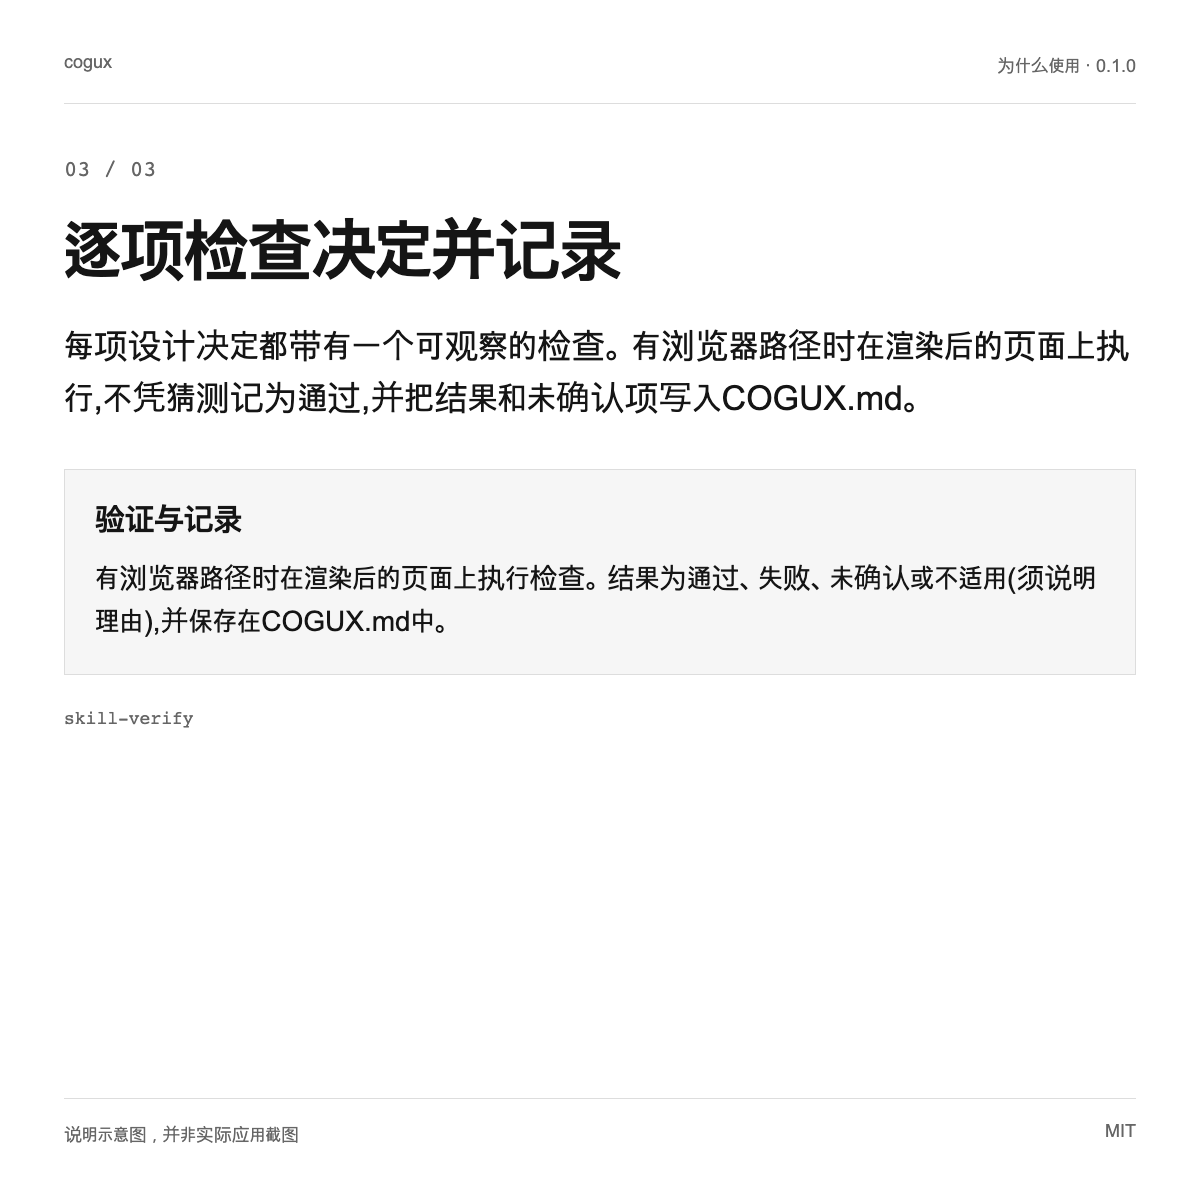
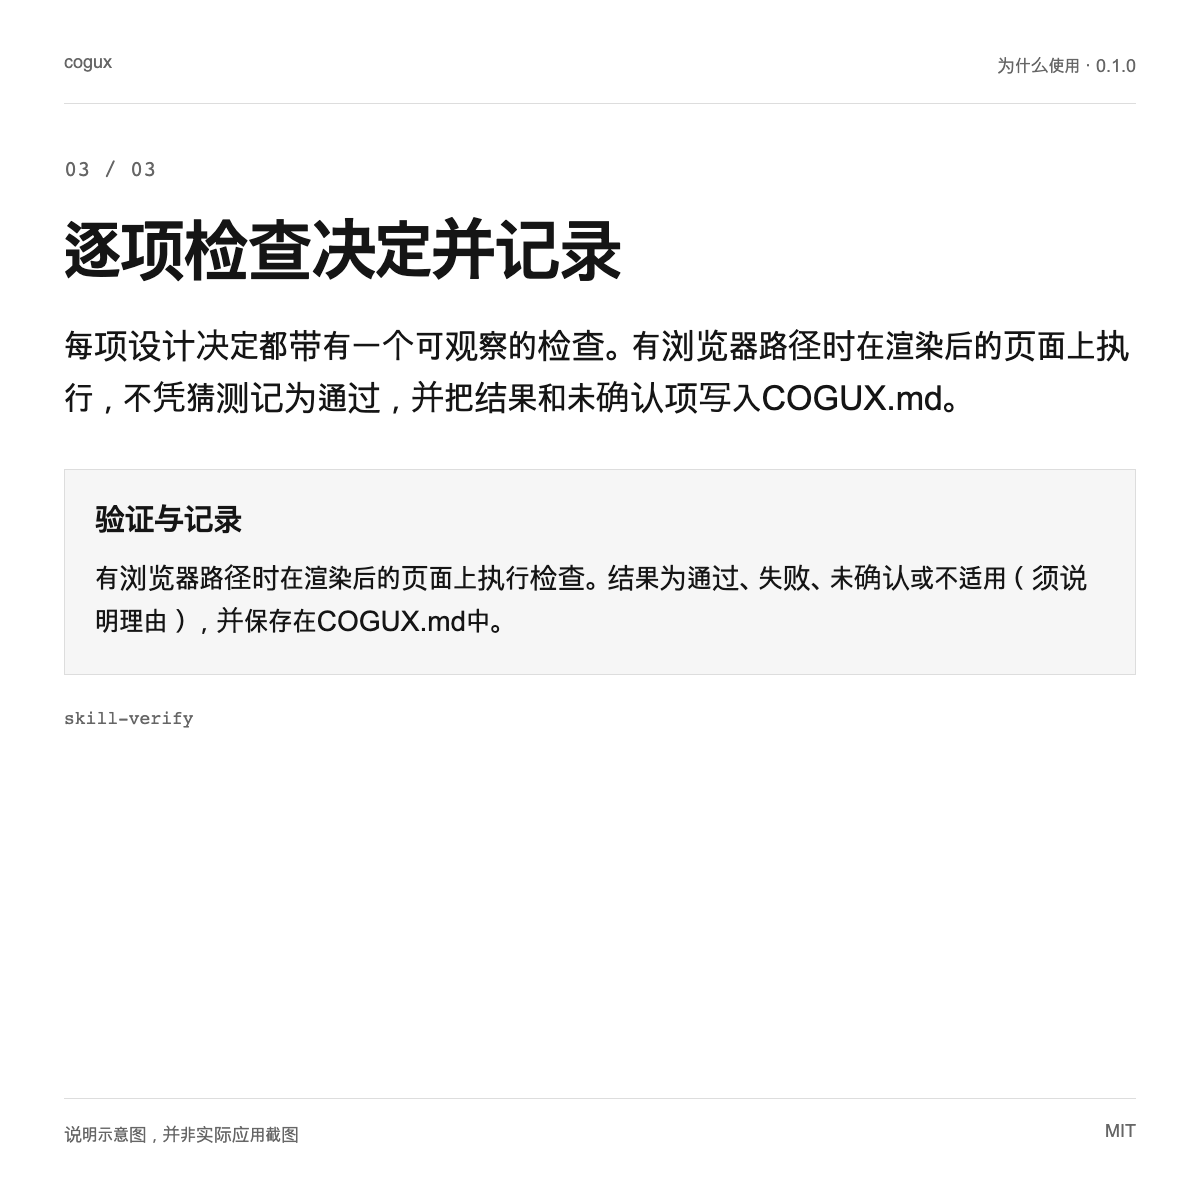
docs: 공개 전 정리 (약속 문구, 지원 안내, 이슈 링크, 프롬프트, 변경 기록, 중국어 구두점)
why: 소유자가 하지 않은 48시간 응답 약속과 없는 FAQ, 켜지지 않았을 수 있는 Discussions 링크, 자리표시 문구를 없애고, 중국어 본문은 전각 구두점을 쓴다.

Changed region(s): [[0.0925, 0.3083, 0.8017, 0.37], [0.0617, 0.4933, 0.4008, 0.5242], [0.8325, 0.4625, 0.925, 0.4933]]

diff --git a/README.zh.md b/README.zh.md
@@ -1,10 +1,10 @@
 # cogux
 
-先阅读项目,只挑选适合它的认知心理学原则,记录理由,修改真实的界面代码,并写入COGUX.md的Claude Code技能。
+先阅读项目，只挑选适合它的认知心理学原则，记录理由，修改真实的界面代码，并写入COGUX.md的Claude Code技能。
 
 [English](README.md) | [한국어](README.ko.md) | [日本語](README.ja.md) | **简体中文**
 
-![cogux: 说明示意图，并非实际应用截图](assets/zh/hero.png)
+![cogux：说明示意图，并非实际应用截图](assets/zh/hero.png)
 
 0.1.0 · MIT
 
@@ -12,9 +12,9 @@
 
 | | |
 | --- | --- |
-| 只选适合的原则 | 先阅读用户、任务、界面和约束,再选择原则,并必须写出被排除的原则及理由。对所有项目套用同一组原则被定义为失败。 |
-| 修改真实的界面代码 | 每项设计决定都写明原则、界面、修改内容,以及数量、尺寸或是否存在这类可观察的检查。随后在项目代码中实现,并记录到COGUX.md。 |
-| 逐项检查决定并记录 | 每项设计决定都带有一个可观察的检查。有浏览器路径时在渲染后的页面上执行,不凭猜测记为通过,并把结果和未确认项写入COGUX.md。 |
+| 只选适合的原则 | 先阅读用户、任务、界面和约束，再选择原则，并必须写出被排除的原则及理由。对所有项目套用同一组原则被定义为失败。 |
+| 修改真实的界面代码 | 每项设计决定都写明原则、界面、修改内容，以及数量、尺寸或是否存在这类可观察的检查。随后在项目代码中实现，并记录到COGUX.md。 |
+| 逐项检查决定并记录 | 每项设计决定都带有一个可观察的检查。有浏览器路径时在渲染后的页面上执行，不凭猜测记为通过，并把结果和未确认项写入COGUX.md。 |
 
 ## 快速开始
 
@@ -25,13 +25,13 @@ git clone https://github.com/grow1023/cogux "$HOME/.claude/skills/cogux"
 bash "$HOME/.claude/skills/cogux/gates/verify_cogux.sh" "$HOME/.claude/skills/cogux"
 ```
 
-第二条命令检查技能结构、原则文件、两个示例项目和密钥扫描。所有子检查通过后以VERIFY PASS结束。但调用主题检查的子检查需要所有者的本地文件,在其他电脑上可能失败。
+第二条命令检查技能结构、原则文件、两个示例项目和密钥扫描。所有子检查通过后以VERIFY PASS结束。但调用主题检查的子检查需要所有者的本地文件，在其他电脑上可能失败。
 
 ## 工作原理
 
 该技能按顺序执行六个步骤。下面的三个阶段是对它们的归并。
 
-![工作原理: 说明示意图，并非实际应用截图](assets/zh/architecture.png)
+![工作原理：说明示意图，并非实际应用截图](assets/zh/architecture.png)
 
 ### 阅读与选择
 
@@ -39,62 +39,62 @@ bash "$HOME/.claude/skills/cogux/gates/verify_cogux.sh" "$HOME/.claude/skills/co
 
 ### 决定与实现
 
-每项决定写一个可观察的检查,修改真实界面代码,并对改动的文件运行现有的竖条检查和主题检查。
+每项决定写一个可观察的检查，修改真实界面代码，并对改动的文件运行现有的竖条检查和主题检查。
 
 ### 验证与记录
 
-有浏览器路径时在渲染后的页面上执行检查。结果为通过、失败、未确认或不适用(须说明理由),并保存在COGUX.md中。
+有浏览器路径时在渲染后的页面上执行检查。结果为通过、失败、未确认或不适用（须说明理由），并保存在COGUX.md中。
 
 ## 使用场景
 
 ### 两个对照的示例项目
 
-fixtures/中有首次使用的结账流程和专注学习应用。各自包含修改前页面、修改后页面和COGUX.md,两个项目选择的原则不同。
+fixtures/中有首次使用的结账流程和专注学习应用。各自包含修改前页面、修改后页面和COGUX.md，两个项目选择的原则不同。
 
 ### 注明阅读范围的47条原则
 
-每个原则文件都有定义、来源链接、适用时机、不适用时机、可观察的检查以及实际阅读范围。定义用自己的话写成,没有照搬来源。
+每个原则文件都有定义、来源链接、适用时机、不适用时机、可观察的检查以及实际阅读范围。定义用自己的话写成，没有照搬来源。
 
-![只选适合的原则: 说明示意图，并非实际应用截图](assets/zh/gallery-1.png)
+![只选适合的原则：说明示意图，并非实际应用截图](assets/zh/gallery-1.png)
 
-![修改真实的界面代码: 说明示意图，并非实际应用截图](assets/zh/gallery-2.png)
+![修改真实的界面代码：说明示意图，并非实际应用截图](assets/zh/gallery-2.png)
 
-![逐项检查决定并记录: 说明示意图，并非实际应用截图](assets/zh/gallery-3.png)
+![逐项检查决定并记录：说明示意图，并非实际应用截图](assets/zh/gallery-3.png)
 
 ## 限制与隐私
 
-- 技能正文和检查脚本引用所有者本地的规则(~/.claude/rules/)和检查脚本(~/.claude/qa-canon/)。这些文件不在本仓库中,在其他电脑上克隆后部分检查步骤可能失败。
+- 技能正文和检查脚本引用所有者本地的规则（~/.claude/rules/）和检查脚本（~/.claude/qa-canon/）。这些文件不在本仓库中，在其他电脑上克隆后部分检查步骤可能失败。
 
-- 定义只与来源的开头部分做了对照。没有任何原则读过全文,也没有打开原始研究。
+- 定义只与来源的开头部分做了对照。没有任何原则读过全文，也没有打开原始研究。
 
-- 第三方来源(Laws of UX、Nielsen Norman Group、jnd.org、arXiv)的权利归各自作者所有,MIT许可证不适用于它们。自己撰写的摘要是否构成CC BY-NC-ND材料的衍生作品,未做法律核实。
+- 第三方来源（Laws of UX、Nielsen Norman Group、jnd.org、arXiv）的权利归各自作者所有，MIT许可证不适用于它们。自己撰写的摘要是否构成CC BY-NC-ND材料的衍生作品，未做法律核实。
 
 ## 验证状态
 
-- **已验证运行**: 在已安装的副本上运行了verify_cogux.sh,以VERIFY PASS结束。这检查的是结构,并不证明在新项目中原则选择正确。
-- **文档说明**: 没有运行git clone命令,因为撰写本README时远程仓库尚不存在。
+- **已验证运行**: 在已安装的副本上运行了verify_cogux.sh，以VERIFY PASS结束。这检查的是结构，并不证明在新项目中原则选择正确。
+- **文档说明**: 没有运行git clone命令，因为撰写本README时远程仓库尚不存在。
 
 ## 下一步
 
-工作流程见SKILL.md,原则见references/INDEX.md,完整示例见fixtures/。
+工作流程见SKILL.md，原则见references/INDEX.md，完整示例见fixtures/。
 
 <details>
 <summary>依据列表</summary>
 
 [JSON](docs/showcase/sources.json)
 
-- `skill-intro`: `SKILL.md`, L6–L8 (已检查代码)
-- `skill-boundary`: `SKILL.md`, L10–L16 (已检查代码)
-- `skill-read`: `SKILL.md`, L22–L33 (已检查代码)
-- `skill-select`: `SKILL.md`, L35–L55 (已检查代码)
-- `skill-decide`: `SKILL.md`, L57–L69 (已检查代码)
-- `skill-verify`: `SKILL.md`, L71–L87 (已检查代码)
-- `library`: `references/INDEX.md`, L1–L22 (已检查代码)
-- `rights-and-scope`: `references/INDEX.md`, L5–L21 (文档说明)
-- `gate`: `gates/verify_cogux.sh`, L1–L34 (已验证运行)
-- `fixture-a`: `fixtures/checkout-first-time/COGUX.md`, L1–L77 (已检查代码)
-- `fixture-b`: `fixtures/study-adhd/COGUX.md`, L1–L77 (已检查代码)
-- `license`: `LICENSE`, L1–L3 (已检查代码)
+- `skill-intro`: `SKILL.md`, L6–L8（已检查代码）
+- `skill-boundary`: `SKILL.md`, L10–L16（已检查代码）
+- `skill-read`: `SKILL.md`, L22–L33（已检查代码）
+- `skill-select`: `SKILL.md`, L35–L55（已检查代码）
+- `skill-decide`: `SKILL.md`, L57–L69（已检查代码）
+- `skill-verify`: `SKILL.md`, L71–L87（已检查代码）
+- `library`: `references/INDEX.md`, L1–L22（已检查代码）
+- `rights-and-scope`: `references/INDEX.md`, L5–L21（文档说明）
+- `gate`: `gates/verify_cogux.sh`, L1–L34（已验证运行）
+- `fixture-a`: `fixtures/checkout-first-time/COGUX.md`, L1–L77（已检查代码）
+- `fixture-b`: `fixtures/study-adhd/COGUX.md`, L1–L77（已检查代码）
+- `license`: `LICENSE`, L1–L3（已检查代码）
 
 - `selects` → `skill-read`, `skill-select`
 - `implements` → `skill-decide`

diff --git a/CHANGELOG.md b/CHANGELOG.md
@@ -3,9 +3,16 @@
 이 프로젝트의 주요 변경사항을 기록합니다.
 형식: [Keep a Changelog](https://keepachangelog.com/), 버전: [Semantic Versioning](https://semver.org/).
 
-## [Unreleased]
+## [0.1.0]
+
+첫 공개 버전입니다.
 
 ### Added
-- 초기 프로젝트 구조
+- 인지심리학 기반 UI/UX 스킬(`SKILL.md`): 프로젝트 읽기, 원칙 선택, 설계 결정, 구현, 검증, `COGUX.md` 기록의 6단계 작업 순서
+- 원칙 라이브러리 47개(`references/`)와 색인. 항목마다 출처 링크, 적용할 때, 적용하지 않을 때, 관찰 확인, 읽은 범위를 적었습니다. 정의는 출처의 앞부분과만 대조했습니다.
+- 대조되는 예시 프로젝트 2개(`fixtures/`): 처음 쓰는 결제 흐름, 집중 공부 앱
+- 구조 게이트(`gates/verify_cogux.sh`)와 이를 부르는 `make verify`
+- 영어, 한국어, 일본어, 중국어 README와 설명용 도식 24장
+- MIT 라이선스. 제3자 출처의 권리는 포함하지 않습니다.
 
-[Unreleased]: https://github.com/grow1023/cogux/commits/main
+[0.1.0]: https://github.com/grow1023/cogux/commits/main

diff --git a/.github/SUPPORT.md b/.github/SUPPORT.md
@@ -2,7 +2,7 @@
 
 도움이 필요하면:
 
-1. **문서 먼저** — [README](../README.md) 의 Quick Start 와 FAQ 를 확인하세요.
+1. **문서 먼저** — [README](../README.ko.md) 의 "빠른 시작"과 "한계와 개인정보"를 확인하세요. 영어는 [README](../README.md) 의 "Quick start"와 "Limits and privacy"입니다.
 2. **이슈 검색** — 같은 질문이 이미 있는지 [Issues](../../issues) 를 검색하세요.
 3. **새 질문** — 없으면 `question` 라벨로 새 이슈를 여세요.
 4. **버그/기능** — [버그 리포트](../../issues/new?template=bug_report.yml) 또는 [기능 요청](../../issues/new?template=feature_request.yml) 템플릿을 사용하세요.

diff --git a/.github/SECURITY.md b/.github/SECURITY.md
@@ -11,7 +11,7 @@
 - 비공개로 보고: GitHub Security Advisories(Repository → Security → Report a vulnerability) 사용
 - 또는 메인테이너에게 직접 연락
 
-48시간 내 접수 확인, 영향도 분류 후 수정 일정을 공유합니다. 책임 있는 공개(responsible disclosure)에 감사드립니다.
+책임 있는 공개(responsible disclosure)에 감사드립니다.
 
 ## Scope
 
